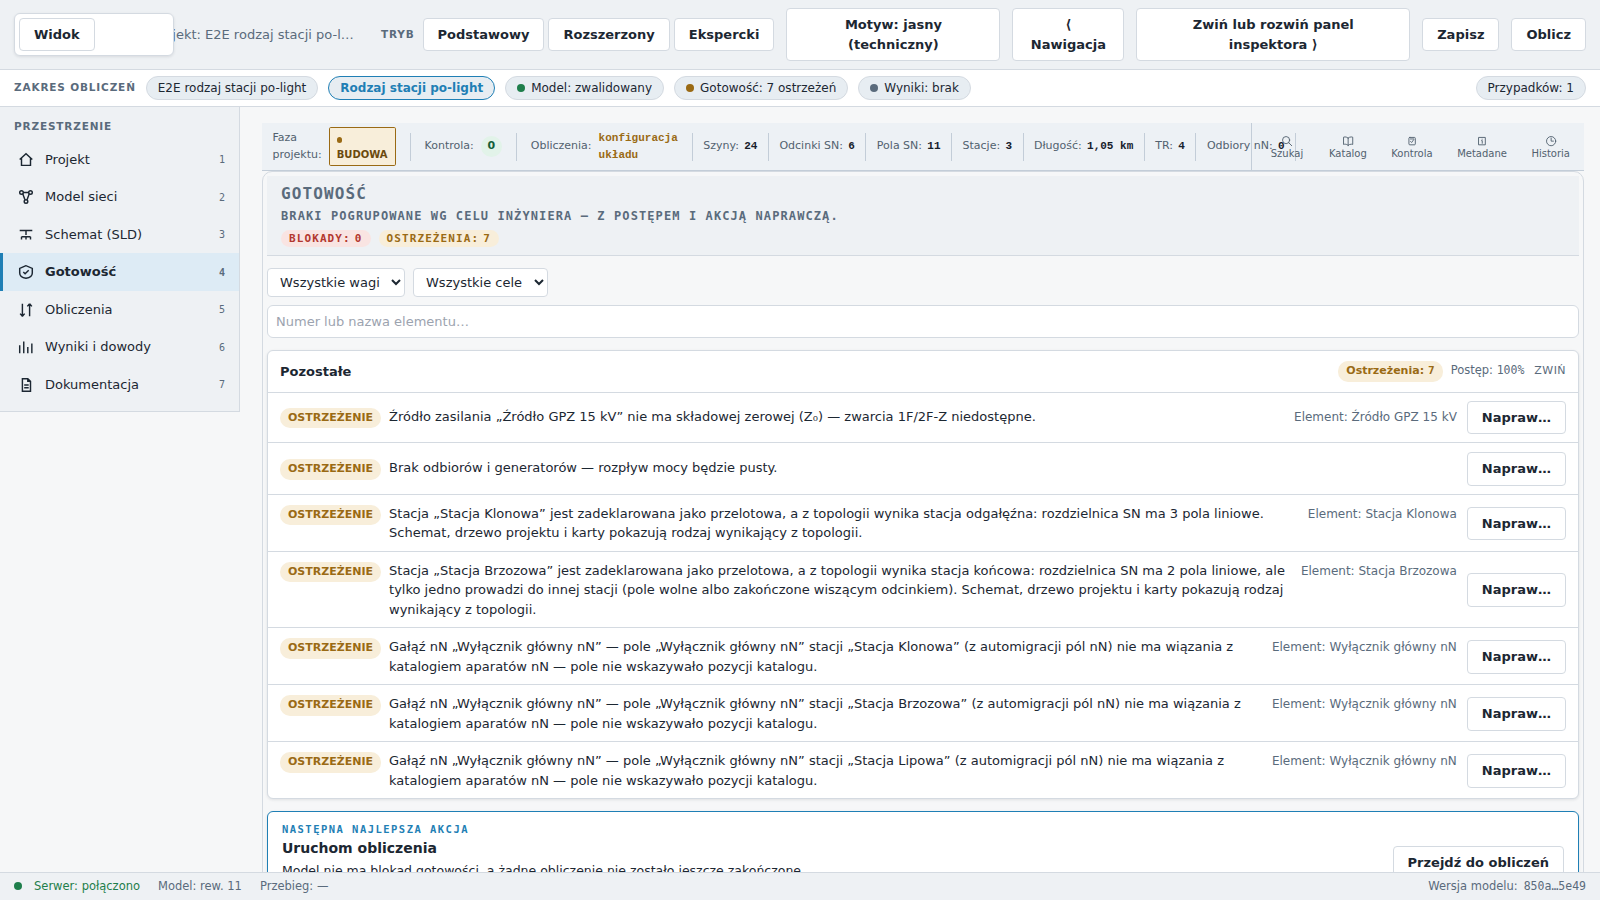
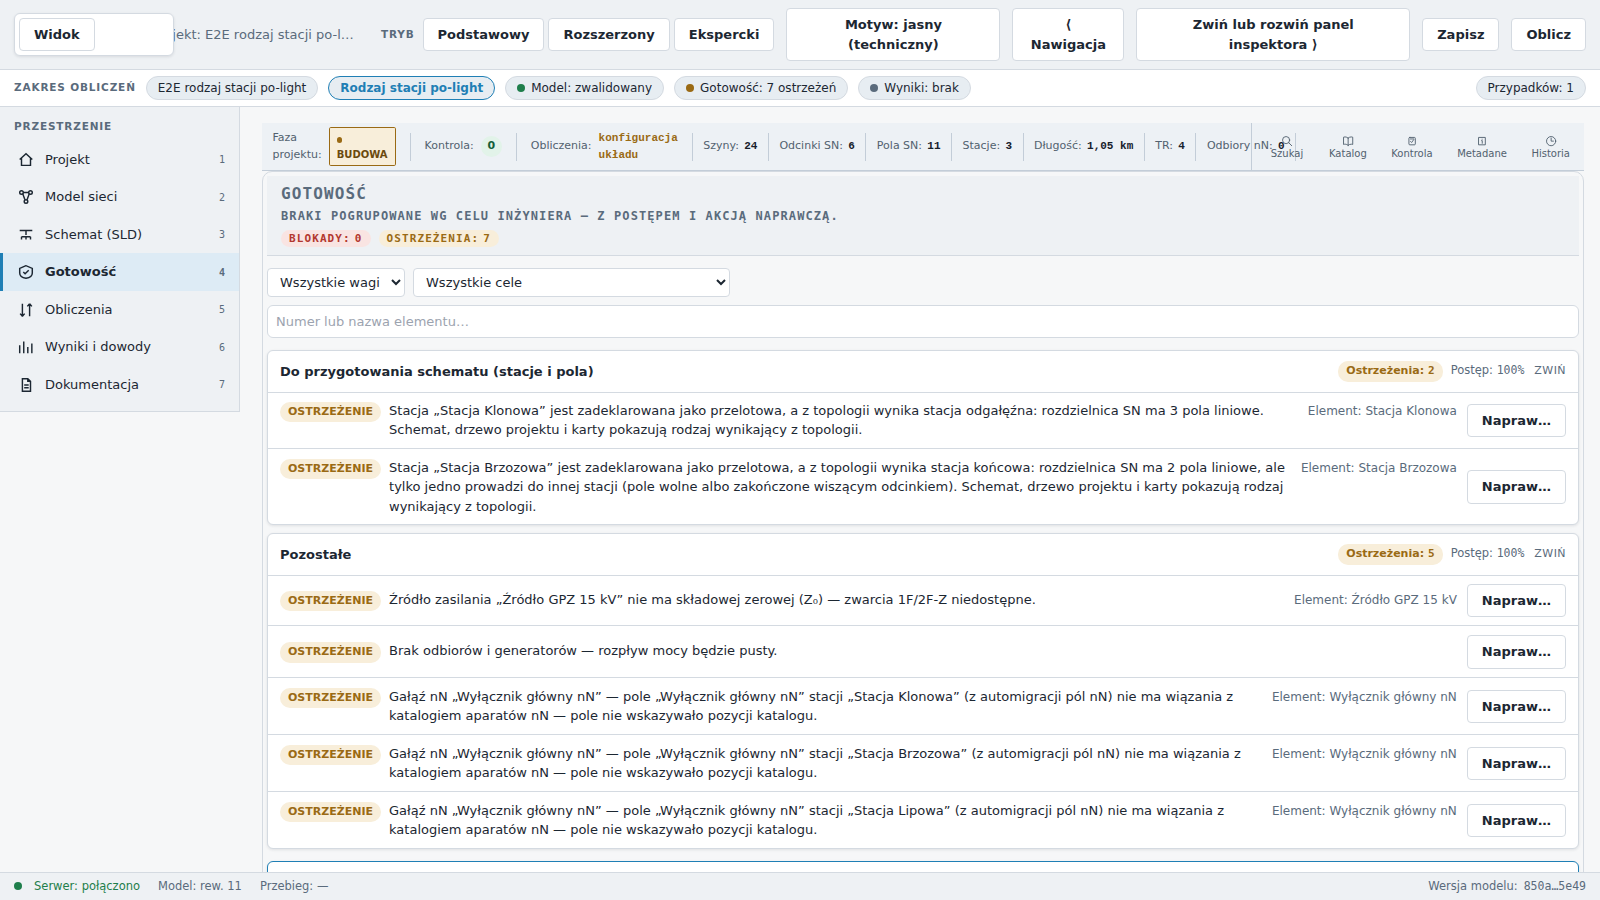
ETYKIETA-STACJI-PRZELOTOWEJ: lista gotowości grupuje zgłoszenia walidatora po kodzie kanonicznym, snapshot rejestru kodów odświeżony (część 4)
naProblemGotowosci: cel po `canonical_code` (most readiness_bridge), gdy backend go
dołączył — dawniej W043 i każdy odwzorowany kod walidatora bez kropki trafiał do
„Pozostałe". Kod surowy zostaje w `code`. Testy: iloczyn {kod kanoniczny obecny/brak}
× {kod surowy/kanoniczny}. Snapshot `readiness_registry_snapshot.json` przegenerowany
komendą z nagłówka testu parytetu (143 → 147 kodów: station.kind_mismatch,
station.field_role_unknown oraz dwa kody wcześniejszych kart). Zrzuty „po" listy
gotowości przegenerowane spec-em e2e.

Claude-Session: https://claude.ai/code/session_01F43GthUESihn96aREbLDEy

diff --git a/mv-design-pro/frontend/src/ui2/spaces/gotowosc/grupowanieCelow.ts b/mv-design-pro/frontend/src/ui2/spaces/gotowosc/grupowanieCelow.ts
@@ -102,12 +102,13 @@
  *
  * Pozostałe ograniczenia (bez zgadywania — poza zakresem testu parytetu, bo
  * poza kanonicznym rejestrem):
- * 1. Kody generyczne bez separatora kropkowego (`E001`..`E042`, `W001`..`W040`,
+ * 1. Kody generyczne bez separatora kropkowego (`E001`..`E042`, `W001`..`W062`,
  *    `I001`..`I005` z `enm/validator.py`) NIE MAJĄ przestrzeni nazw (prefiksu)
- *    wskazującej cel — trafiają do „Pozostałe". Ich znaczenie jest czytelne
- *    z `wizard_step_hint` (K2..K6) i treści `message_pl`, ale to inny sygnał
- *    niż „prefiks kodu" — GRANICA PRODUKTU (rozszerzenie mapowania o
- *    `wizard_step_hint` wymaga osobnej decyzji o drugim kluczu grupowania).
+ *    wskazującej cel. Gdy most `domain/readiness_bridge.py` odwzorowuje kod na
+ *    kanon (ten sam warunek), zgłoszenie niesie `canonical_code` i cel idzie za
+ *    nim (`naProblemGotowosci`; karta ETYKIETA-STACJI-PRZELOTOWEJ — dawniej W043
+ *    i każdy inny odwzorowany kod walidatora lądował w „Pozostałe"). Kod bez
+ *    odwzorowania kanonicznego trafia do „Pozostałe" (bez zgadywania).
  * 2. Kody z `network_model/validation/validator.py` i
  *    `network_model/catalog/readiness_checker.py` (np. `transformer.hv_invalid`,
  *    `transformer.polarity_reversed`) pochodzą z ODRĘBNEGO modułu walidacji
@@ -498,7 +499,11 @@ export function naProblemGotowosci(issue: ReadinessIssue): ProblemGotowosci {
     waga: wagaZSeverity(issue.severity),
     elementRef: issue.element_ref ?? issue.element_refs[0] ?? null,
     opisPl: issue.message_pl,
-    cel: celDlaKodu(issue.code),
+    // Cel po kodzie KANONICZNYM, gdy backend go dołączył (most `readiness_bridge`: ten sam
+    // warunek w kanonie) — dawniej zgłoszenia walidatora (`W043`, `E009`, …) szły po
+    // surowym kodzie bez kropki do „Pozostałe", choć kanon zna ich obszar. Kod surowy
+    // zostaje w `code` (identyfikacja wiersza, filtry).
+    cel: celDlaKodu(issue.canonical_code ?? issue.code),
     fixAction: issue.fix_action,
     priorytetKanoniczny: issue.canonical_priority ?? null,
   };

diff --git a/mv-design-pro/frontend/src/ui2/spaces/gotowosc/__tests__/grupowanieCelow.test.ts b/mv-design-pro/frontend/src/ui2/spaces/gotowosc/__tests__/grupowanieCelow.test.ts
@@ -231,3 +231,27 @@ describe('naProblemGotowosci — priorytet kanoniczny przepisany BEZ ZMIAN', () 
     expect(b.priorytetKanoniczny).toBeNull();
   });
 });
+
+describe('naProblemGotowosci — cel po kodzie kanonicznym zgłoszenia walidatora', () => {
+  // Zgłoszenia walidatora ENM niosą surowy kod bez kropki (`W043`, `E009`) i — gdy most
+  // `readiness_bridge` zna ten sam warunek — kod kanoniczny. Cel idzie za kodem
+  // kanonicznym; kod surowy zostaje w `code`. Iloczyn: {kod kanoniczny obecny, brak} ×
+  // {kod surowy walidatora, kod już kanoniczny}.
+  it.each([
+    ['W043', 'station.kind_mismatch', 'stacje'],
+    ['W044', 'station.field_role_unknown', 'stacje'],
+    ['E009', 'catalog.binding_missing', 'wspolne'],
+  ])('kod %s z kodem kanonicznym %s → cel %s', (code, canonical, cel) => {
+    const problem = naProblemGotowosci(readinessIssue({ code, canonical_code: canonical }));
+    expect(problem.cel).toBe(cel);
+    expect(problem.code).toBe(code);
+  });
+
+  it('kod surowy bez kodu kanonicznego → „Pozostałe" (bez zgadywania)', () => {
+    expect(naProblemGotowosci(readinessIssue({ code: 'W043' })).cel).toBe('pozostale');
+  });
+
+  it('kod już kanoniczny bez pola canonical_code → cel z tego kodu', () => {
+    expect(naProblemGotowosci(readinessIssue({ code: 'station.kind_mismatch' })).cel).toBe('stacje');
+  });
+});
